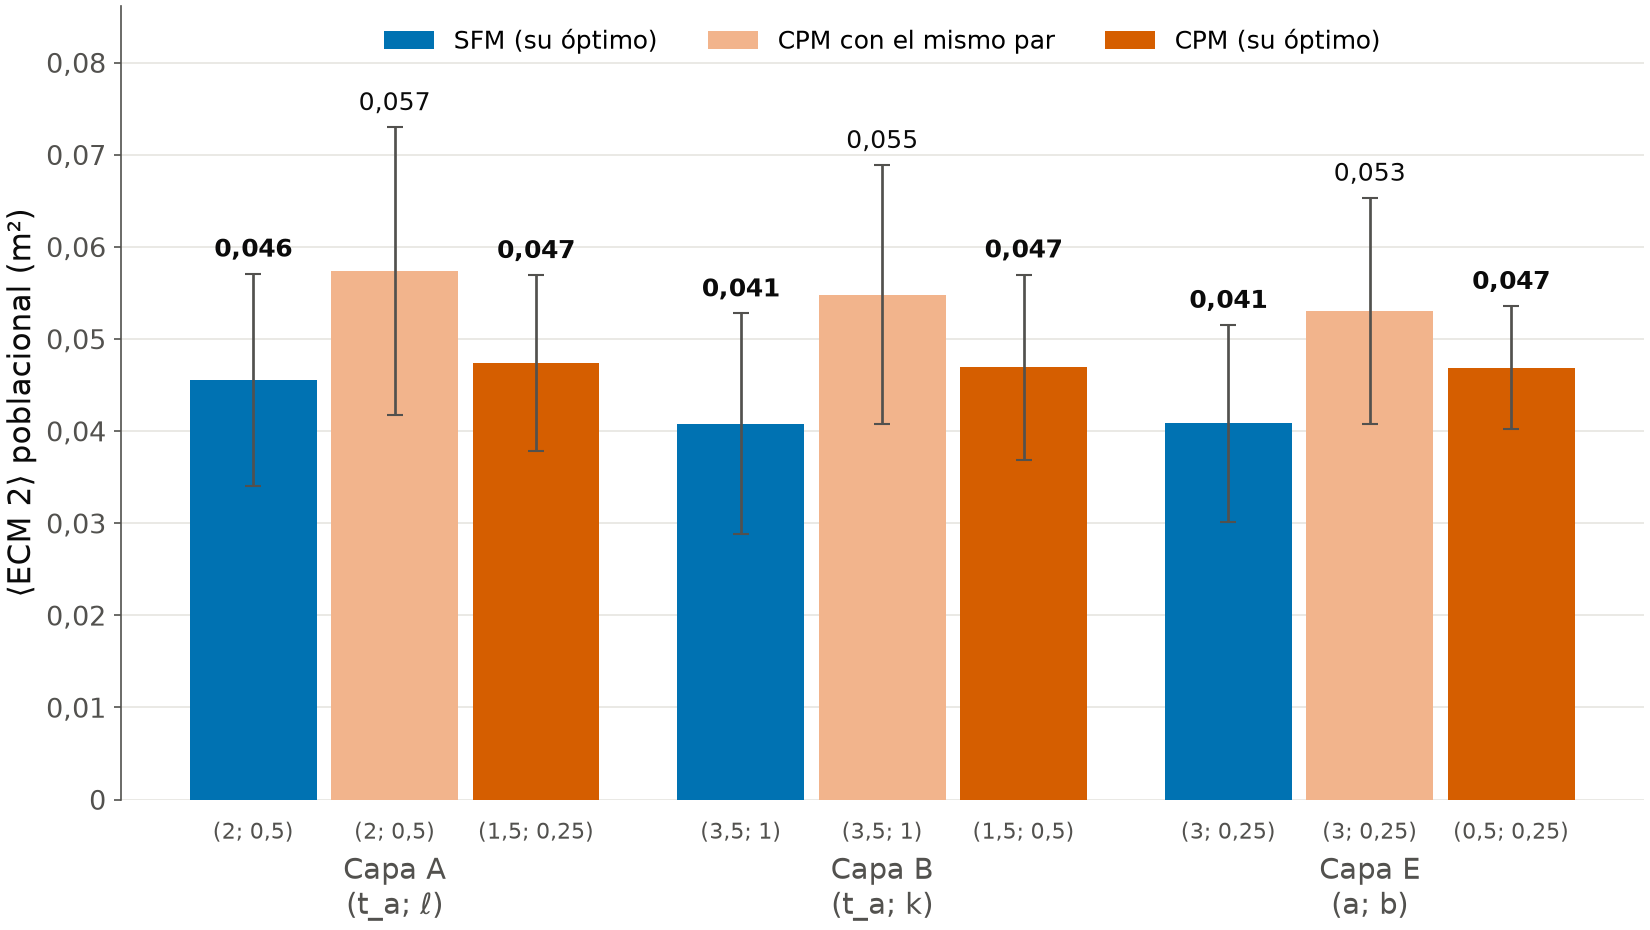
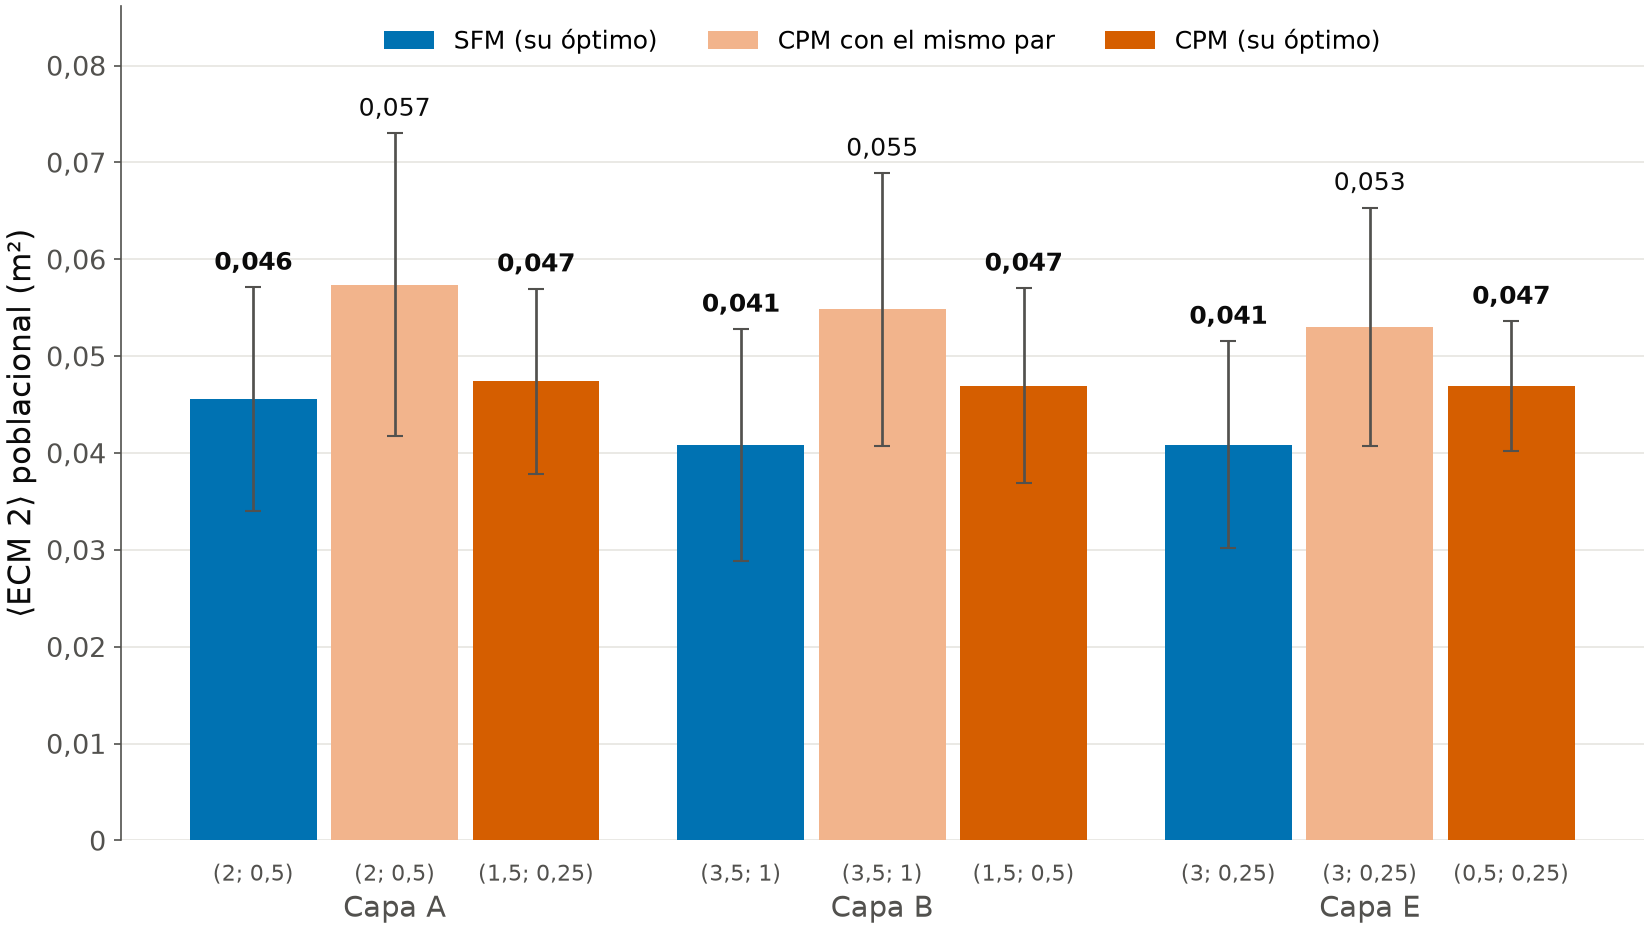
feat: removed params from graphs in slides 28 and 29

diff --git a/TP5/scripts/graph_gen/cpm_compare.py b/TP5/scripts/graph_gen/cpm_compare.py
@@ -217,7 +217,7 @@ def figures(sfm, cpm, optimum):
                         fontsize=10.5, color=MUTED)
                 top = max(top, mean + se)
         ax.set_xticks(range(len(SFM)))
-        ax.set_xticklabels([f"Capa {l}\n({PARAMS[l][0]}; {PARAMS[l][1]})" for l in SFM], fontsize=14)
+        ax.set_xticklabels([f"Capa {l}" for l in SFM], fontsize=14)
         ax.tick_params(axis="x", length=0, pad=26)
         ax.set_ylim(0, top * 1.18)
         ax.set_ylabel(f"⟨{label}⟩ poblacional (m²)")
